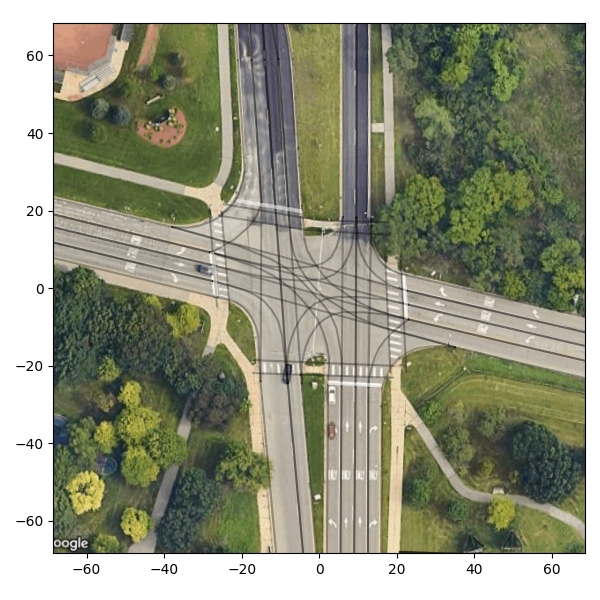
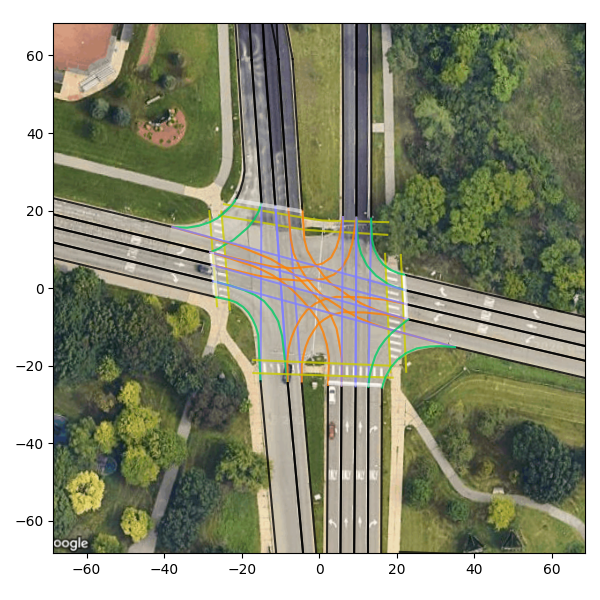
update visualization

Changed region(s): [[0.09, 0.03, 0.99, 0.93]]

diff --git a/visualization/plotting/traffic_light_plotter.py b/visualization/plotting/traffic_light_plotter.py
@@ -4,7 +4,14 @@ Traffic element plotting (traffic lights, signs, etc).
 from matplotlib.patches import Rectangle
 from typing import Dict, Optional
 
-from ..config import StyleConfig
+from ..config import StyleConfig, RenderConfig
+
+# Map spat phase strings to StyleConfig color attribute names
+_PHASE_COLOR_MAP = {
+    'r': 'traffic_light_red_color',
+    'g': 'traffic_light_green_color',
+    'y': 'traffic_light_yellow_color',
+}
 
 
 def plot_traffic_lights(
@@ -12,39 +19,75 @@ def plot_traffic_lights(
     map_obj,
     trajectory_manager=None,
     frame_step: int = 0,
-    style: Optional[StyleConfig] = None
+    style: Optional[StyleConfig] = None,
+    render_config: Optional[RenderConfig] = None,
+    is_video: bool = False,
+    flashing_yellow_start: Optional[Dict[str, int]] = None
 ):
     """
     Plot traffic light indicators.
-    
+
     Args:
         ax: Matplotlib axis
         map_obj: Map object with traffic_light_info attribute
         trajectory_manager: TrajectoryManager
         frame_step: Frame index
         style: StyleConfig for default colors
+        render_config: RenderConfig for flashing yellow frequency
+        is_video: Whether this is being rendered as part of a video
+        flashing_yellow_start: Dict tracking the start frame of each
+            traffic light's current flashing yellow run. Mutated in place.
     """
     if style is None:
         style = StyleConfig()
-    
+    if render_config is None:
+        render_config = RenderConfig()
+
     # Check if map has traffic light info
     if not hasattr(map_obj, 'traffic_light_info'):
         return
-    
+
     if trajectory_manager is None or not hasattr(trajectory_manager.step_to_frame_map[frame_step], 'spat'):
         traffic_light_phase = {}
     else:
         traffic_light_phase = trajectory_manager.step_to_frame_map[frame_step].spat
-    
+
     # Plot each traffic light
     for traffic_light_name, traffic_light_geometry in map_obj.traffic_light_info.items():
         # Determine color and alpha
         if traffic_light_name in traffic_light_phase:
-            color = traffic_light_phase[traffic_light_name] if traffic_light_phase[traffic_light_name] != 'flashing y' else 'y'
-            alpha = 1.0
+            phase = traffic_light_phase[traffic_light_name]
+            if phase == 'flashing y':
+                if is_video and flashing_yellow_start is not None:
+                    # Record the start frame of this flashing yellow run
+                    if traffic_light_name not in flashing_yellow_start:
+                        flashing_yellow_start[traffic_light_name] = frame_step
+
+                    # Alternate relative to the start of this run
+                    elapsed = frame_step - flashing_yellow_start[traffic_light_name]
+                    freq = render_config.flashing_yellow_frequency
+                    if (elapsed // freq) % 2 == 0:
+                        color = style.traffic_light_yellow_color
+                        alpha = 1.0
+                    else:
+                        color = style.traffic_light_flashing_yellow_off_color
+                        alpha = 1.0
+                else:
+                    # Single frame: show as static yellow
+                    color = style.traffic_light_yellow_color
+                    alpha = 1.0
+            else:
+                color = getattr(style, _PHASE_COLOR_MAP.get(phase, ''), phase)
+                alpha = 1.0
+                # Phase is no longer flashing yellow, clear the start tracker
+                if flashing_yellow_start is not None and traffic_light_name in flashing_yellow_start:
+                    del flashing_yellow_start[traffic_light_name]
         else:
             color = style.traffic_light_default_color
             alpha = style.traffic_light_default_alpha
+            # Not active, clear the start tracker
+            if flashing_yellow_start is not None and traffic_light_name in flashing_yellow_start:
+                del flashing_yellow_start[traffic_light_name]
         
         # Create rectangle patch
         rect = Rectangle(

diff --git a/visualization/plotting/map_plotter.py b/visualization/plotting/map_plotter.py
@@ -1,6 +1,7 @@
 """
 Map and road network plotting.
 """
+import matplotlib.pyplot as plt
 from typing import List, Optional
 import numpy as np
 import cv2
@@ -32,7 +33,7 @@ def plot_map(
         style = StyleConfig()
     
     # Plot background image if available
-    if extent and len(extent) == 4 and map_obj.background_img is not None:
+    if extent and len(extent) == 4 and map_obj.background_img is not None and background_corners is not None:
         # ax.imshow(map_obj.background_img, extent=extent, zorder=0)
         img = np.array(map_obj.background_img.convert('RGBA'))
         H, W = img.shape[:2]
@@ -70,14 +71,31 @@ def plot_map(
     if not map_obj.base_map():
         return
     
+    def _lanelet_color(lanelet):
+        """Return the color for a lanelet based on its subtype and turn_direction."""
+        if lanelet.id in config.highlight_lane_ids:
+            return style.highlight_color
+        attrs = lanelet.attributes
+        subtype = attrs["subtype"] if "subtype" in attrs else ""
+        turn_direction = attrs["turn_direction"] if "turn_direction" in attrs else ""
+        if subtype == "crosswalk":
+            return style.lanelet_crosswalk_color
+        if subtype in ("intersection", "roundabout"):
+            if turn_direction == "left":
+                return style.lanelet_left_turn_color
+            if turn_direction == "right":
+                return style.lanelet_right_turn_color
+            return style.lanelet_intersection_color
+        if subtype == "enter":
+            return style.lanelet_left_turn_color
+        if subtype == "exit":
+            return style.lanelet_right_turn_color
+        return style.map_color
+
     # Helper function to plot lane lines
-    def _plot_lines(lane_points, lanelet_id):
+    def _plot_lines(lane_points, lanelet):
         """Plot a single lane line."""
-        if lanelet_id in config.highlight_lane_ids:
-            color = style.highlight_color
-        else:
-            color = style.map_color
-        
+        color = _lanelet_color(lanelet)
         ax.plot(*zip(*lane_points), color=color, zorder=1, alpha=style.map_alpha)
     
     # Plot each lanelet
@@ -91,15 +109,15 @@ def plot_map(
         # Plot boundaries and centerline
         if config.draw_left:
             lane_points = [[point.x, point.y] for point in lanelet.leftBound]
-            _plot_lines(lane_points, lanelet.id)
-        
+            _plot_lines(lane_points, lanelet)
+
         if config.draw_right:
             lane_points = [[point.x, point.y] for point in lanelet.rightBound]
-            _plot_lines(lane_points, lanelet.id)
-        
+            _plot_lines(lane_points, lanelet)
+
         if config.draw_center:
             lane_points = [[point.x, point.y] for point in lanelet.centerline]
-            _plot_lines(lane_points, lanelet.id)
+            _plot_lines(lane_points, lanelet)
         
         # Plot direction arrows if requested
         if config.show_arrows and len(lanelet.centerline) > 1:

diff --git a/visualization/config/style_config.py b/visualization/config/style_config.py
@@ -34,8 +34,17 @@ class StyleConfig:
     future_traj_color: Tuple[float, float, float] = FUTURE_TRAJ_COLOR
     pred_traj_color: Tuple[float, float, float] = PRED_TRAJ_COLOR
     arrow_color: Tuple[float, float, float] = ARROW_COLOR
+    traffic_light_red_color: Tuple[float, float, float] = TRAFFIC_LIGHT_RED_COLOR
+    traffic_light_yellow_color: Tuple[float, float, float] = TRAFFIC_LIGHT_YELLOW_COLOR
+    traffic_light_green_color: Tuple[float, float, float] = TRAFFIC_LIGHT_GREEN_COLOR
+    traffic_light_flashing_yellow_off_color: Tuple[float, float, float] = TRAFFIC_LIGHT_FLASHING_YELLOW_OFF_COLOR
     traffic_light_default_color: Tuple[float, float, float] = TRAFFIC_LIGHT_DEFAULT_COLOR
     intersection_area_color: Tuple[float, float, float] = INTERSECTION_AREA_COLOR
+    # Lanelet type colors (subtype/turn_direction based)
+    lanelet_intersection_color: Tuple[float, float, float] = LANELET_INTERSECTION_COLOR
+    lanelet_left_turn_color: Tuple[float, float, float] = LANELET_LEFT_TURN_COLOR
+    lanelet_right_turn_color: Tuple[float, float, float] = LANELET_RIGHT_TURN_COLOR
+    lanelet_crosswalk_color: Tuple[float, float, float] = LANELET_CROSSWALK_COLOR
     # set color for each roaduser
     roaduser_colors: Dict[Any, Tuple[float, float, float]] = field(default_factory=dict)
     
@@ -82,7 +91,10 @@ class StyleConfig:
         color_attrs = [
             'map_color', 'roaduser_color', 'highlight_color',
             'hist_traj_color', 'future_traj_color', 'pred_traj_color',
-            'arrow_color', 'traffic_light_default_color'
+            'arrow_color',
+            'traffic_light_red_color', 'traffic_light_yellow_color',
+            'traffic_light_green_color', 'traffic_light_flashing_yellow_off_color',
+            'traffic_light_default_color'
         ]
         for attr in color_attrs:
             color = getattr(self, attr)
@@ -113,7 +125,10 @@ class StyleConfig:
         color_attrs = [
             'map_color', 'roaduser_color', 'highlight_color',
             'hist_traj_color', 'future_traj_color', 'pred_traj_color',
-            'arrow_color', 'traffic_light_default_color'
+            'arrow_color',
+            'traffic_light_red_color', 'traffic_light_yellow_color',
+            'traffic_light_green_color', 'traffic_light_flashing_yellow_off_color',
+            'traffic_light_default_color'
         ]
         for attr in color_attrs:
             if attr in config_dict and isinstance(config_dict[attr], list):

diff --git a/visualization/constants.py b/visualization/constants.py
@@ -7,12 +7,20 @@ from typing import Tuple
 # Colors (RGB tuples, values 0-1)
 # ============================================================================
 MAP_COLOR: Tuple[float, float, float] = (0, 0, 0)  # Black
+LANELET_INTERSECTION_COLOR: Tuple[float, float, float] = (0.1, 0.3, 1.0)   # Blue
+LANELET_LEFT_TURN_COLOR: Tuple[float, float, float] = (1.0, 0.45, 0.0)    # Orange
+LANELET_RIGHT_TURN_COLOR: Tuple[float, float, float] = (0.0, 0.75, 0.2)   # Green
+LANELET_CROSSWALK_COLOR: Tuple[float, float, float] = (1.0, 0.85, 0.0)    # Yellow
 ROADUSER_COLOR: Tuple[float, float, float] = (0, 1, 0)  # Green
 HIGHLIGHT_COLOR: Tuple[float, float, float] = (1, 0, 0)  # Red
 HIST_TRAJ_COLOR: Tuple[float, float, float] = (0, 0, 0)  # Black
 FUTURE_TRAJ_COLOR: Tuple[float, float, float] = (0, 0, 1)  # Blue
 PRED_TRAJ_COLOR: Tuple[float, float, float] = (0, 1, 0)  # Green
 ARROW_COLOR: Tuple[float, float, float] = (0, 0, 0)  # Black
+TRAFFIC_LIGHT_RED_COLOR: Tuple[float, float, float] = (1, 0, 0)  # Red
+TRAFFIC_LIGHT_YELLOW_COLOR: Tuple[float, float, float] = (1.0, 0.843, 0.0)  # Gold
+TRAFFIC_LIGHT_GREEN_COLOR: Tuple[float, float, float] = (0, 1, 0)  # Green
+TRAFFIC_LIGHT_FLASHING_YELLOW_OFF_COLOR: Tuple[float, float, float] = (0.4, 0.337, 0.0)  # Dimmed gold
 TRAFFIC_LIGHT_DEFAULT_COLOR: Tuple[float, float, float] = (1, 1, 1)  # White
 INTERSECTION_AREA_COLOR: Tuple[float, float, float] = (1, 0, 0)  # Red
 

diff --git a/plot_map.py b/plot_map.py
@@ -5,6 +5,7 @@ from lanelet2.core import GPSPoint
 
 from map.map import load_map
 from visualization.config import render_config
+from visualization.config.style_config import StyleConfig
 from visualization.plotting import plot_map, plot_traffic_lights
 
 
@@ -70,10 +71,18 @@ args = parser.parse_args()
 # Load the lanelet2 map
 map_obj = load_map(args.map_path, google_maps_api_key=args.google_maps_api_key)
 
+style = StyleConfig(
+    map_alpha=0.8,
+    lanelet_intersection_color=(0.5, 0.5, 1.0),   # light blue
+    lanelet_left_turn_color=(1.0, 0.5, 0.0),       # orange
+    lanelet_right_turn_color=(0.0, 0.8, 0.4),      # green
+    lanelet_crosswalk_color=(0.8, 0.8, 0.0),       # yellow
+)
+
 fig, ax = plt.subplots(figsize=(6, 6))
 xlim, ylim, background_corners = determine_xy_lim(map_obj)
-plot_map(ax, map_obj, extent=xlim + ylim, background_corners=background_corners)
-plot_traffic_lights(ax, map_obj)
+plot_map(ax, map_obj, extent=xlim + ylim, background_corners=background_corners, style=style)
+plot_traffic_lights(ax, map_obj, style=style)
 plt.xlim(xlim)
 plt.ylim(ylim)
 plt.tight_layout()

diff --git a/visualization/config/render_config.py b/visualization/config/render_config.py
@@ -61,6 +61,7 @@ class RenderConfig:
     # Traffic elements
     # ========================================================================
     show_traffic_lights: bool = True
+    flashing_yellow_frequency: int = 10  # frames per flash
 
     # ========================================================================
     # Traffic elements

diff --git a/docs/verification.md b/docs/verification.md
@@ -52,3 +52,5 @@ As shown above, the crosswalks on the west and south sides are not in the correc
 The complete map should look like this:
 
 ![fuller_huronPkwy](../example/fuller_huronPkwy.png)
+
+The blue lines represent the straight lanelets within the intersection, the orange lines represent the left-turn lanelets withint the intersection, the green lines represent the right-turn lanelets within the intersectin, the yellow lines represent the crosswalks, and the black lines represent the lanelets outside the intersection.
